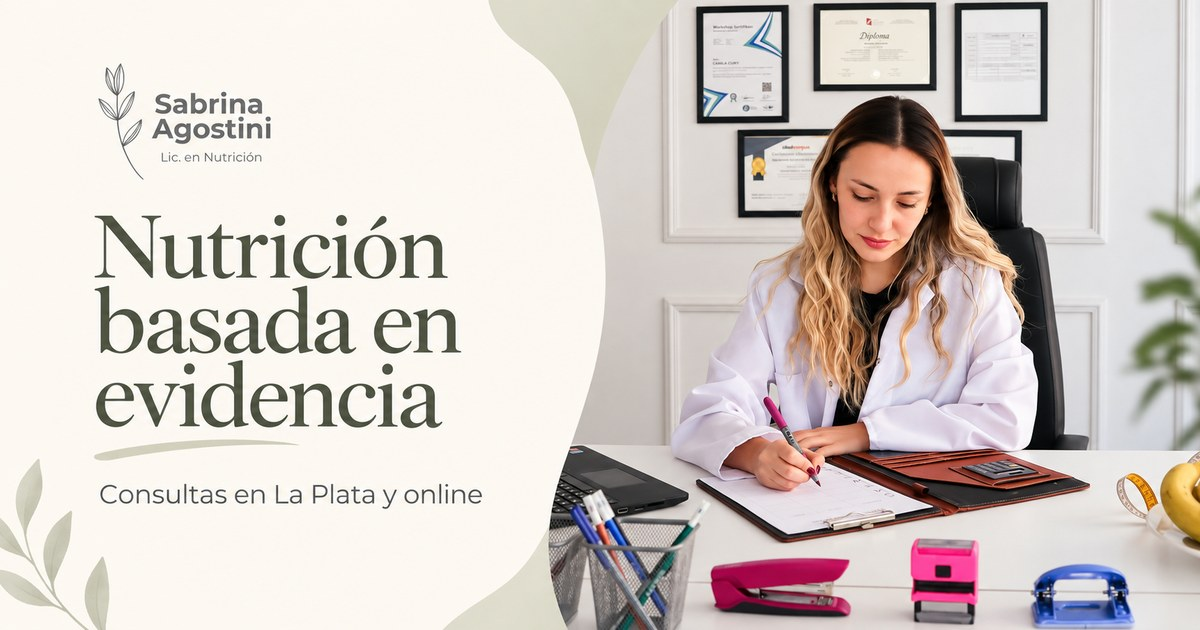
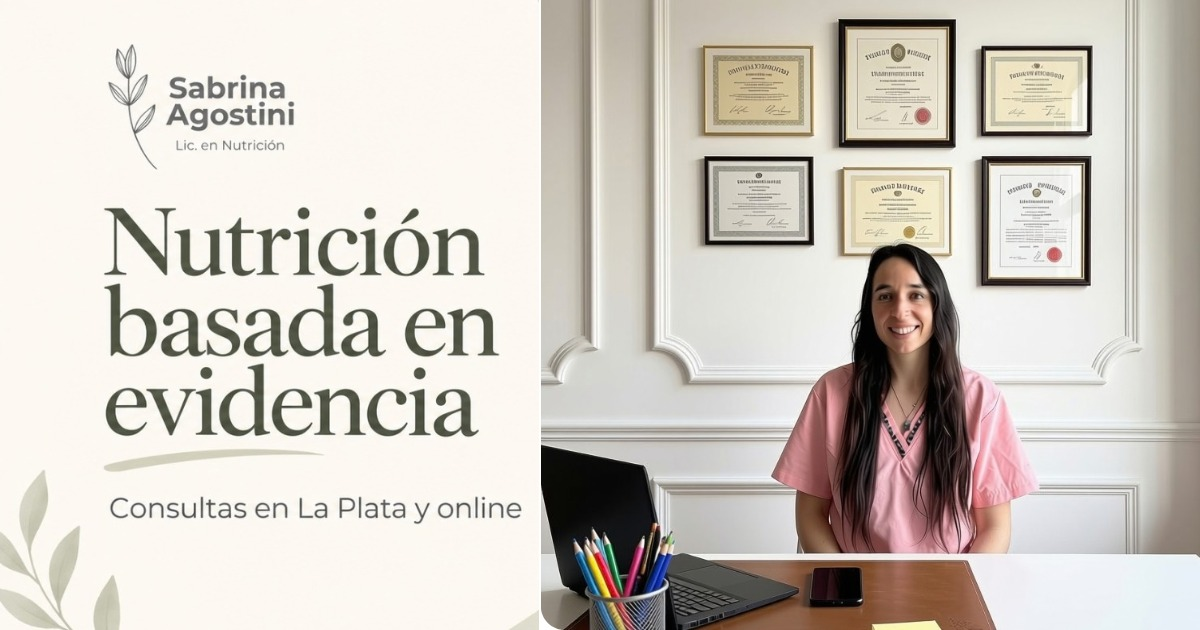
Replace Open Graph image

diff --git a/index.html b/index.html
@@ -22,8 +22,8 @@
     <meta property="og:title" content="Sabrina Agostini | Nutricionista en La Plata y Online">
     <meta property="og:description" content="Nutrición basada en evidencia, personalizada y sostenible. Consultas presenciales en La Plata y online en Argentina.">
     <meta property="og:url" content="https://sabrinaagostininutricion.com.ar/">
-    <meta property="og:image" content="https://sabrinaagostininutricion.com.ar/assets/images/og-sabrina-agostini.jpg">
-    <meta property="og:image:secure_url" content="https://sabrinaagostininutricion.com.ar/assets/images/og-sabrina-agostini.jpg">
+    <meta property="og:image" content="https://sabrinaagostininutricion.com.ar/assets/images/og-sabrina-agostini.jpg?v=2">
+    <meta property="og:image:secure_url" content="https://sabrinaagostininutricion.com.ar/assets/images/og-sabrina-agostini.jpg?v=2">
     <meta property="og:image:type" content="image/jpeg">
     <meta property="og:image:width" content="1200">
     <meta property="og:image:height" content="630">
@@ -32,7 +32,7 @@
     <meta name="twitter:card" content="summary_large_image">
     <meta name="twitter:title" content="Sabrina Agostini | Nutricionista en La Plata y Online">
     <meta name="twitter:description" content="Nutrición basada en evidencia, personalizada y sostenible. Consultas presenciales en La Plata y online en Argentina.">
-    <meta name="twitter:image" content="https://sabrinaagostininutricion.com.ar/assets/images/og-sabrina-agostini.jpg">
+    <meta name="twitter:image" content="https://sabrinaagostininutricion.com.ar/assets/images/og-sabrina-agostini.jpg?v=2">
     <meta name="twitter:image:alt" content="Sabrina Agostini, Licenciada en Nutrición">
 
     <link rel="preload" as="image" href="assets/images/sabrina-001-768.webp" imagesrcset="assets/images/sabrina-001-480.webp 480w, assets/images/sabrina-001-768.webp 768w, assets/images/sabrina-001-1080.webp 1080w" imagesizes="(max-width: 900px) calc(100vw - 36px), 520px" type="image/webp" fetchpriority="high">

diff --git a/PROJECT_STATUS.md b/PROJECT_STATUS.md
@@ -2,7 +2,7 @@
 
 Documento vivo del proyecto. Se actualiza a medida que avanzamos para conservar decisiones, alcance, estado y próximos pasos.
 
-**Última actualización:** 2026-09-27
+**Última actualización:** 2026-09-29
 **Versión de referencia:** V0.3 — SEO y metadata
 **Branch:** `main`
 
@@ -375,6 +375,11 @@ La idea es mantener la arquitectura simple mientras el proyecto no requiera func
 - Se añadió una espera breve antes de abrir Nutreando o WhatsApp para asegurar el envío de eventos de conversión.
 - Se habilitó temporalmente el parámetro técnico `?meta_setup=1` para que Meta detecte el píxel sin omitir el consentimiento para visitantes normales.
 - Quedó pendiente la validación en Google Search Console.
+
+### 2026-09-29 — Imagen social
+
+- Se reemplazó la imagen Open Graph por la nueva composición de marca y fotografía profesional.
+- Se versionó la URL de la imagen social para evitar que Facebook, WhatsApp y otras plataformas conserven el preview anterior en caché.
 
 ### Próximas actualizaciones
 
